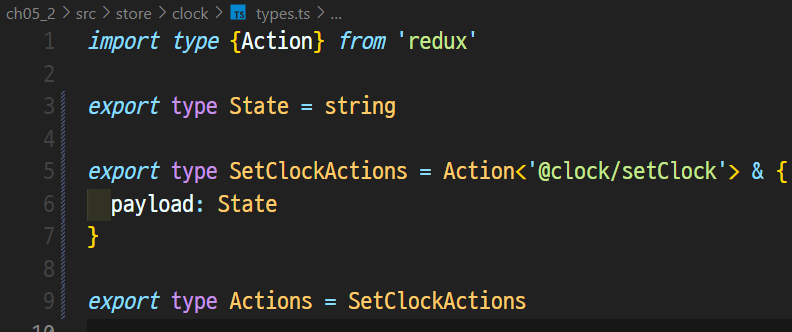
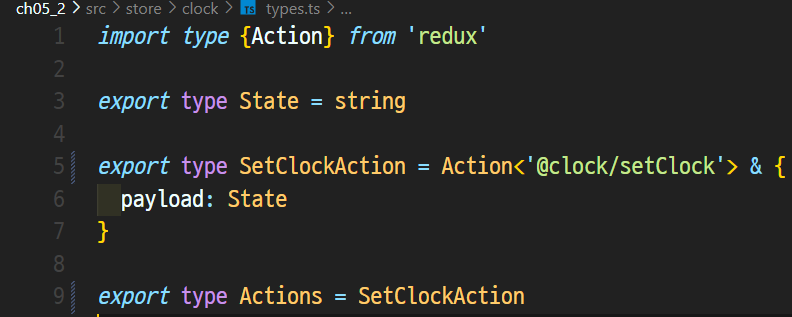
unfinished04 05.상태 관리와 리덕스 패키지_05-2.리듀서 활용하기

diff --git a/ch05/ch05_2/public/index.html b/ch05/ch05_2/public/index.html
@@ -5,10 +5,7 @@
     <link rel="icon" href="%PUBLIC_URL%/favicon.ico" />
     <meta name="viewport" content="width=device-width, initial-scale=1" />
     <meta name="theme-color" content="#000000" />
-    <meta
-      name="description"
-      content="Web site created using create-react-app"
-    />
+    <meta name="description" content="Web site created using create-react-app" />
     <link rel="apple-touch-icon" href="%PUBLIC_URL%/logo192.png" />
     <!--
       manifest.json provides metadata used when your web app is installed on a

diff --git a/ch05/ch05_2/src/pages/ClockTest.tsx b/ch05/ch05_2/src/pages/ClockTest.tsx
@@ -1,7 +1,13 @@
-export default function CopyMe() {
+import {useSelector, useDispatch} from 'react-redux'
+import {Title} from '../components'
+import {useInterval} from '../hooks'
+import type {AppState} from '../store'
+import * as C from '../store/clock'
+
+export default function ClockTest() {
   return (
     <section className="mt-4">
-      <h2 className="text-5xl font-bold text-center">CopyMe</h2>
+      <Title>ClockTest</Title>
       <div className="mt-4"></div>
     </section>
   )

diff --git a/ch05/ch05_2/src/store/clock/types.ts b/ch05/ch05_2/src/store/clock/types.ts
@@ -2,8 +2,8 @@ import type {Action} from 'redux'
 
 export type State = string
 
-export type SetClockActions = Action<'@clock/setClock'> & {
+export type SetClockAction = Action<'@clock/setClock'> & {
   payload: State
 }
 
-export type Actions = SetClockActions
+export type Actions = SetClockAction

diff --git a/ch05/ch05_2/src/store/clock/reducers.ts b/ch05/ch05_2/src/store/clock/reducers.ts
@@ -1,6 +1,6 @@
 import * as T from './types'
 
-const initialState: T.State = {}
+const initialState: T.State = new Date().toISOString()
 
 export const reducer = (state: T.State = initialState, action: T.Actions) => {
   return state

diff --git a/ch05/ch05_2/src/store/clock/actions.ts b/ch05/ch05_2/src/store/clock/actions.ts
@@ -1,1 +1,6 @@
 import type * as T from './types'
+
+export const setClock = (payload: T.State): T.SetClockAction => ({
+  type: '@clock/setClock',
+  payload
+})
